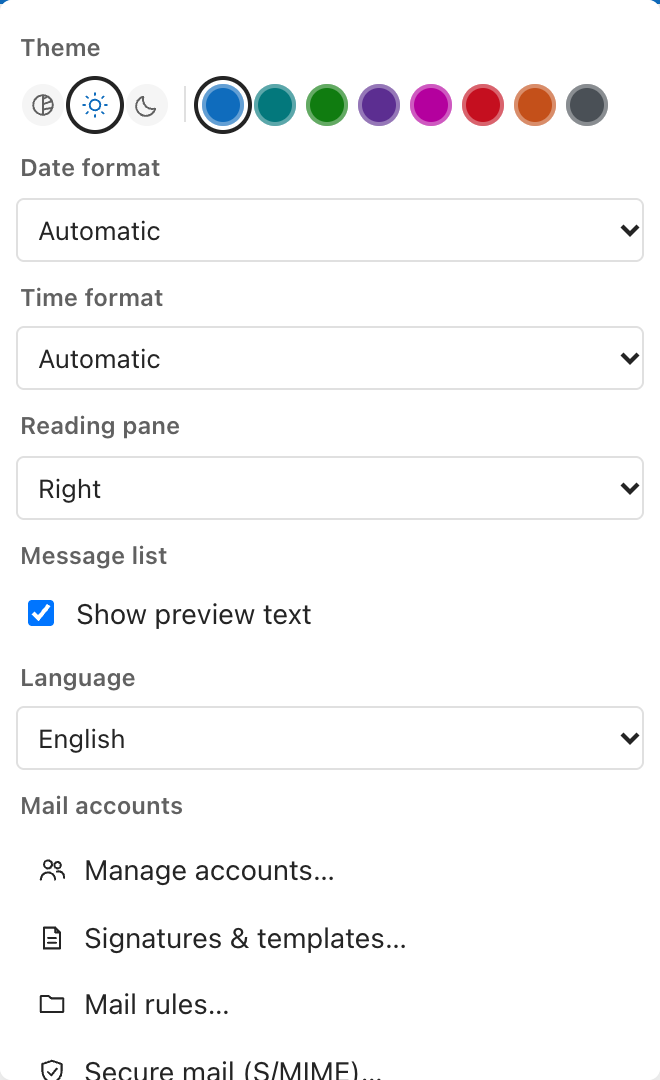
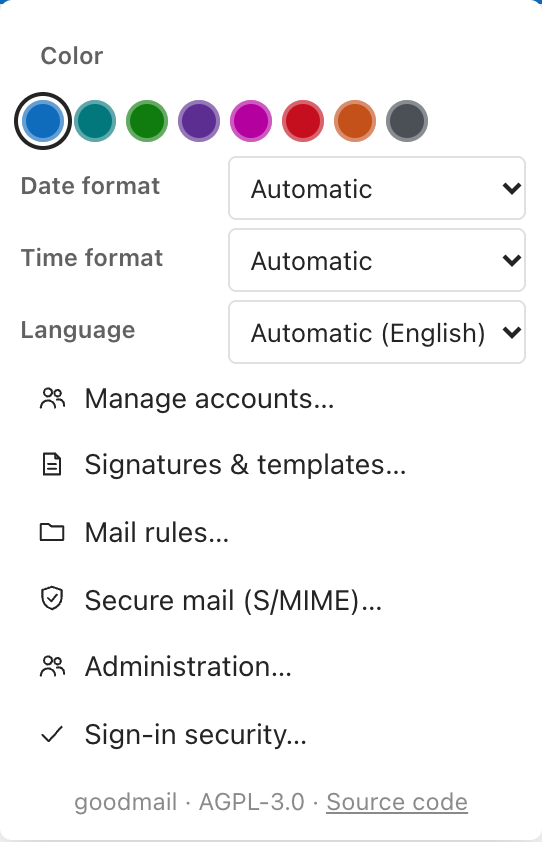
Fresh README screenshots (new top bar, filter menu, calendar side panel, To-Do); capture script covers the new views

diff --git a/README.md b/README.md
@@ -8,6 +8,8 @@ three-pane UI: folder tree, date-grouped message list with previews, reading pan
 | Dark mode, remote images blocked | Calendar — week view |
 |---|---|
 | ![Dark mode with a newsletter; tracking image blocked](docs/screenshots/mail-dark.png) | ![Calendar week view](docs/screenshots/calendar.png) |
+| **To-Do** — My Day, Important, Planned, your own lists | **Calendar side panel** — month and upcoming events |
+| ![To-Do with a task open](docs/screenshots/tasks.png) | ![Mail with the calendar side panel](docs/screenshots/side-panel.png) |
 | **Folders** — ⋯ menu, subfolders, drag and drop | **Mail rules** — run on the server |
 | ![Folder menu with new subfolder, rename and delete](docs/screenshots/folders.png) | ![Mail rules list](docs/screenshots/rules.png) |
 | **Create a rule from any message** | **Composer** — signature and templates |
@@ -18,8 +20,10 @@ three-pane UI: folder tree, date-grouped message list with previews, reading pan
 | ![Sign-in security dialog](docs/screenshots/security.png) | ![Address book](docs/screenshots/contacts.png) |
 | **Administration** — mailboxes and aliases of a domain | **Domains** — for the main administrator |
 | ![Administration: a domain's mailboxes](docs/screenshots/admin.png) | ![Administration: domains and their administrators (main administrator)](docs/screenshots/admin-domains.png) |
-| **View headers** — the raw header block | **Settings** — date, time and reading pane as dropdowns |
-| ![Raw message headers](docs/screenshots/headers.png) | ![Settings menu with dropdowns for date format, time format and reading pane](docs/screenshots/settings-menu.png) |
+| **View headers** — the raw header block | **Settings** — colour, date, time and language |
+| ![Raw message headers](docs/screenshots/headers.png) | ![Settings menu with the accent colours and dropdowns for date format, time format and language](docs/screenshots/settings-menu.png) |
+| **Filter and sort** — unread, flagged, to me, has files; sort by date, from, subject, size or flag | |
+| <img src="docs/screenshots/filter-menu.png" alt="Filter and sort menu" width="45%"> | |
 | **On a phone** | **Phone — folder drawer with ⋯ buttons** |
 | <img src="docs/screenshots/phone-list.png" alt="Message list on a phone" width="32%"> <img src="docs/screenshots/phone-message.png" alt="Reading a message on a phone" width="32%"> <img src="docs/screenshots/phone-move.png" alt="Moving a message on a phone" width="32%"> | <img src="docs/screenshots/phone-menu.png" alt="Folder drawer on a phone" width="60%"> |
 
